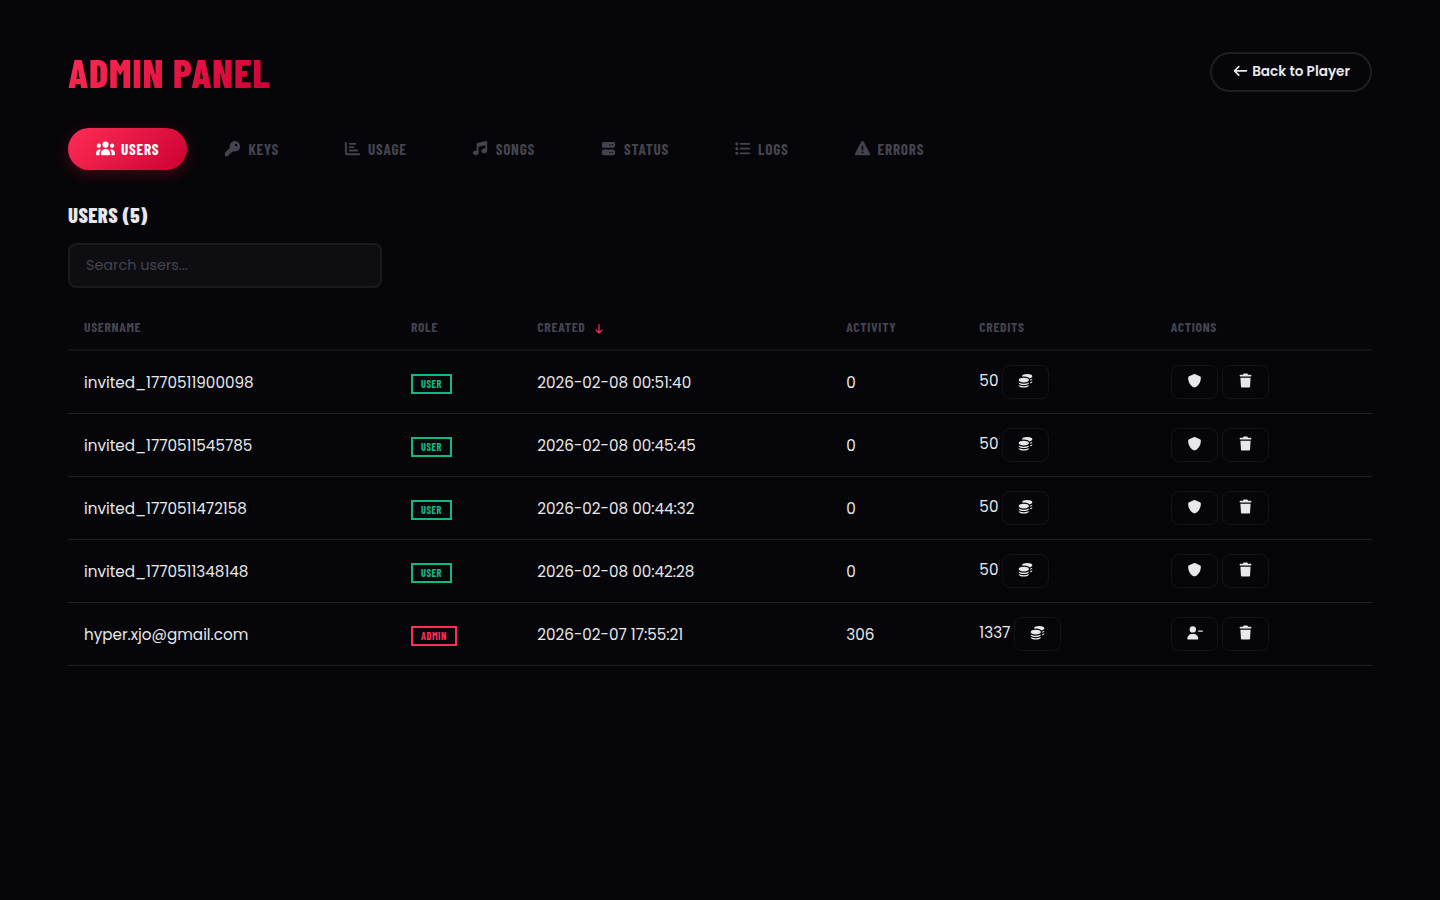
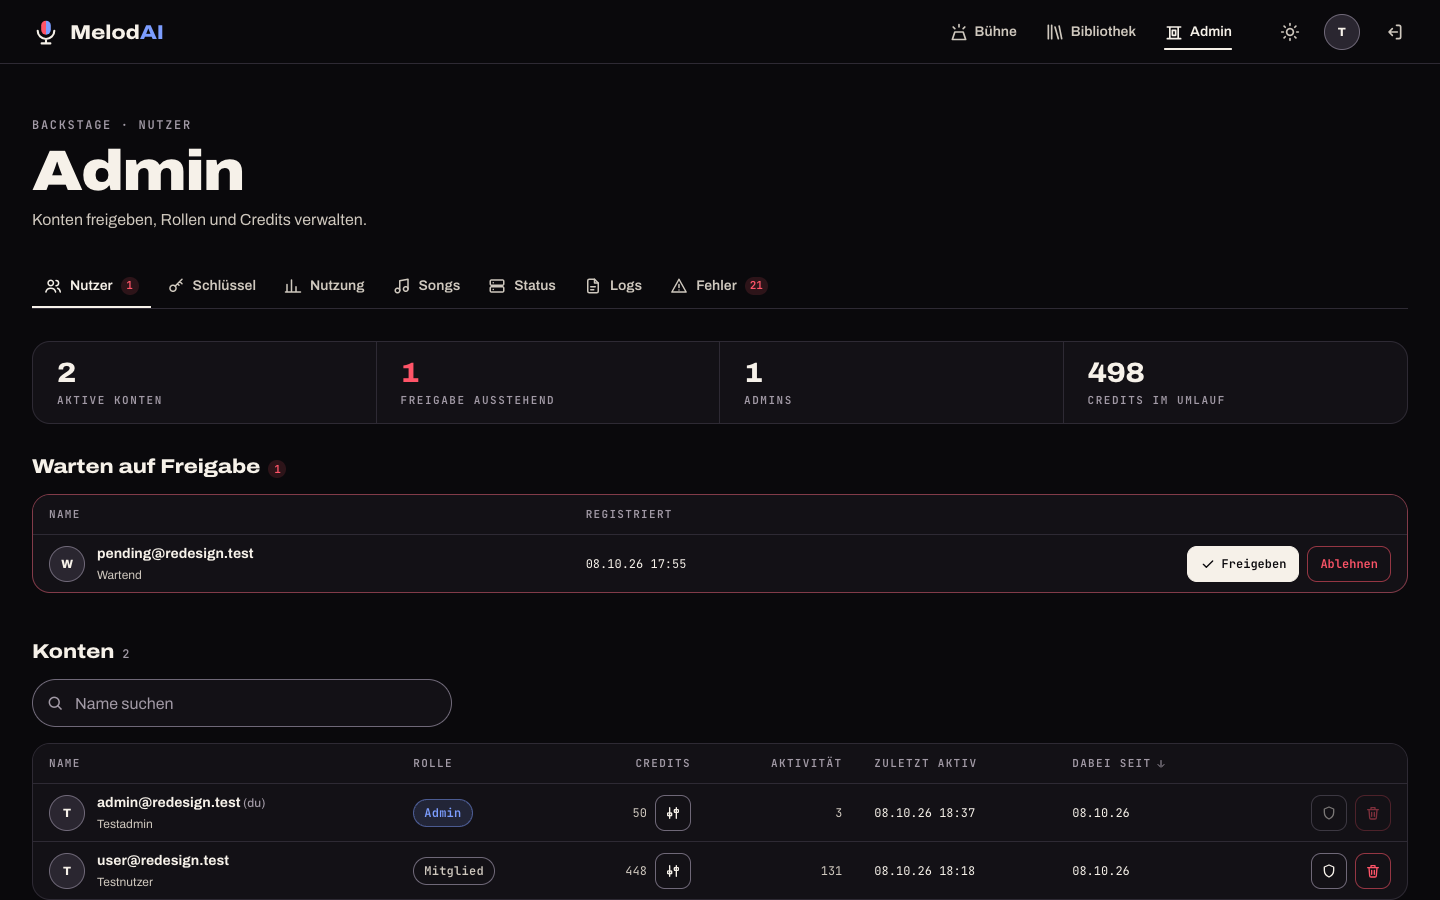
Docs: design system notes, env-driven screenshots, new screenshots
- screenshots.mjs reads account and demo song from the environment
  (no credentials in the repository) and adds light and phone shots
- docs/frontend.md documents tokens, utilities, breakpoints and tables
- CLAUDE.md design system section and README screenshot grid updated

diff --git a/docs/frontend.md b/docs/frontend.md
@@ -1,6 +1,18 @@
 # Frontend structure and interaction rules
 
-The app keeps its crimson palette and dark/light themes. Shared tokens in `src/styles/globals.css` control contrast, spacing, focus indicators, buttons and reduced motion. Routes load separately so the player does not download admin and account screens at startup.
+The design follows the „Bühne“ (stage) concept: a dark stage with a warm spotlight, red for the voice and blue for the instrumental. Light mode is a paper-white variant with the same structure. Routes load separately so the player does not download admin and account screens at startup. The UI language is German, always with real umlauts and ß.
+
+## Styling conventions
+
+- **Tokens** live in `src/styles/tokens.css`: colours (`--stage-0…3`, `--ink`, `--ink-2`, `--muted`, `--line`, `--vocal`, `--inst`, `--spot`, `--ok`, `--warn`), spacing (`--s-1…8`), radii (`--r-*`), type scale (`--fs-*`), motion (`--dur-*`, `--ease`), layers (`--z-*`) and layout sizes (`--header-h`, `--desk-h`, `--setlist-w`). Both themes are defined there: dark is the default, `[data-theme='light']` switches. Colour literals belong only in `tokens.css`.
+- **Utilities** live in `src/styles/globals.css`: `.btn` (+ `--primary`, `--ghost`, `--danger`, `--danger-solid`, `--sm`, `--block`), `.iconbtn`, `.playdisc`, `.seg` (segmented control, state via `aria-pressed`/`aria-current`), `.chip` (`--ok`, `--work`, `--err`, `--warn`, `--live`), `.badge`, `.meter` (value via `--v`), `.kicker`, `.input`/`.field`, `.panel`, `.stats`/`.stat`, `.table-wrap`/`.table`, `.emptyState`, `.error-panel`, `.skeleton`, `.spinner` and `.page-shell`/`.page-column`/`.page-head`.
+- **Components** style themselves with CSS Modules. A module uses tokens and utilities, never raw colours. Class names that e2e tests select on stay stable (`controls`, `resultItem`, `navTab`, `actionBtn`, `filterInput`, `grid`, `emptyState`, `message`, `tab`, …), as do the `data-testid` hooks.
+- **Breakpoints** are mobile first: 600, 900 and 1440 px. Below 900 the Setlist is a drawer and the desk is the compact „Ton“ layout; from 1440 the desk shows two full faders.
+- **Tables** use `.table` inside `.table-wrap`. Add `.table--cards` and a `data-label` on each `td` to turn rows into labelled cards below 600 px; `cell-main`, `cell-acts` and `cell-inline` place cells inside a card.
+- **Icons** come from `components/common/icons.ts` through `<Icon name=… />` (24 px grid, 2 px stroke, `currentColor`). Icons are decorative; buttons carry a visible label or an `aria-label`.
+- **Fonts** are self-hosted in `src/assets/fonts`: Archivo (variable, with a condensed width axis for lyrics and a wide one for headlines) and JetBrains Mono for numbers, times and kickers.
+- **Motion** respects `prefers-reduced-motion`; the lyric sweep, spotlight and transitions turn off there.
+- **Copy**: backend messages stay English; `utils/messages.ts` maps known texts to German through `de()`. Numbers and dates use `utils/format.ts` (German formats).
 
 ## Shared behavior
 
@@ -12,7 +24,9 @@ The app keeps its crimson palette and dark/light themes. Shared tokens in `src/s
 
 ## Feature modules
 
-`pages/admin/` contains focused user, key, song, status, usage, log and error screens. `useAdminAction` handles pending mutation state and confirmed outcomes.
+`pages/admin/` contains focused user, key, song, status, usage, log and error screens („Backstage“). `shared.tsx` holds the pager, search field and section head they share. `useAdminAction` handles pending mutation state and confirmed outcomes. Tabs have `data-testid="admin-tab-<name>"`.
+
+`components/Layout/` holds the `Header`, the drawer navigation, the player `Sidebar` (Setlist) and `AppShell`, the frame for every page other than the player.
 
 `pages/library/` separates catalog search, library loading/polling, preview audio and song presentation. Request generations prevent stale search/filter responses from replacing newer results. Playlist counts come from the server after changes.
 
@@ -28,4 +42,6 @@ npm run lint
 npm run build
 ```
 
-For browser checks, use an isolated local app and verify both themes, a narrow viewport, keyboard controls, failed requests, playlist dialogs, route navigation and playback. Keep real provider validation separate from synthetic fixture tests.
+For browser checks, use an isolated local app and verify both themes at 390 px and 1440 px, keyboard controls, failed requests, playlist dialogs, route navigation and playback. Keep real provider validation separate from synthetic fixture tests.
+
+`screenshots.mjs` in the repository root regenerates `docs/screenshots`. It reads the account and a demo song ID from environment variables (see the file header). Run it only against a demo song store with self-written lyrics, never against real song data.

diff --git a/CLAUDE.md b/CLAUDE.md
@@ -88,10 +88,13 @@ Vite dev server (port 3000) proxies `/api/*` and `/songs/*` to Flask (port 5000)
 Copy `example.env` to `.env` and fill in the required values.
 
 ## Design System
-- Primary gradient: `#d90429` → `#8b0000` (red/crimson)
-- Fonts: Barlow Condensed (headings), Poppins (body)
-- Dark mode default via `[data-theme='dark']` CSS variables
-- Glassmorphism containers, brutalist tags, pill buttons
+- Concept „Bühne“: dark stage with a warm spotlight (default), paper-white light theme via `[data-theme='light']`
+- Tokens in `frontend/src/styles/tokens.css` (colours only there); utilities (`.btn`, `.seg`, `.chip`, `.table`, `.stats`, …) in `frontend/src/styles/globals.css`; components use CSS Modules
+- Red `--vocal` = voice, blue `--inst` = instrumental, `--spot` = spotlight accent
+- Fonts: Archivo Variable (UI, condensed lyrics, wide headlines) and JetBrains Mono (numbers, kickers), self-hosted
+- Icons: `<Icon name=… />` from `frontend/src/components/common/icons.ts`, no icon font
+- UI copy is German with real umlauts; backend messages are mapped through `de()` in `frontend/src/utils/messages.ts`
+- Keep e2e selector classes (`controls`, `resultItem`, `navTab`, `actionBtn`, …) and `data-testid`s stable; details in `docs/frontend.md`
 
 ## Important Constraints
 - **Do NOT modify `src/services/deezer.py`** — Complex decryption logic, 707 lines

diff --git a/README.md b/README.md
@@ -25,9 +25,15 @@ Search for a song, and MelodAI separates vocals from instrumentals, extracts wor
 
 ## Screenshots
 
+Screenshots use a demo song store with self-written lyrics.
+
 | Login | Library |
 |-------|---------|
 | ![Login](docs/screenshots/01-login.png) | ![Library](docs/screenshots/03-library.png) |
+
+| Light theme | Phone |
+|-------------|-------|
+| ![Player in the light theme](docs/screenshots/08-player-light.png) | ![Player on a phone](docs/screenshots/09-phone-player.png) |
 
 | Admin - Songs | Admin - Users |
 |---------------|---------------|
@@ -40,7 +46,7 @@ Search for a song, and MelodAI separates vocals from instrumentals, extracts wor
 ## Tech Stack
 
 - **Backend:** Python 3.12, Flask, SQLite
-- **Frontend:** React, TypeScript, Vite, CSS Modules
+- **Frontend:** React, TypeScript, Vite, CSS Modules with design tokens, self-hosted Archivo and JetBrains Mono
 - **Audio:** Web Audio API with dual GainNodes (vocals + instrumental)
 - **Vocal separation:** local BS-RoFormer via turbo-roformer (CPU, PyTorch), Replicate Demucs as fallback
 - **AI Services:** Replicate (WhisperX, Demucs fallback), OpenRouter (LLM lyrics processing)
